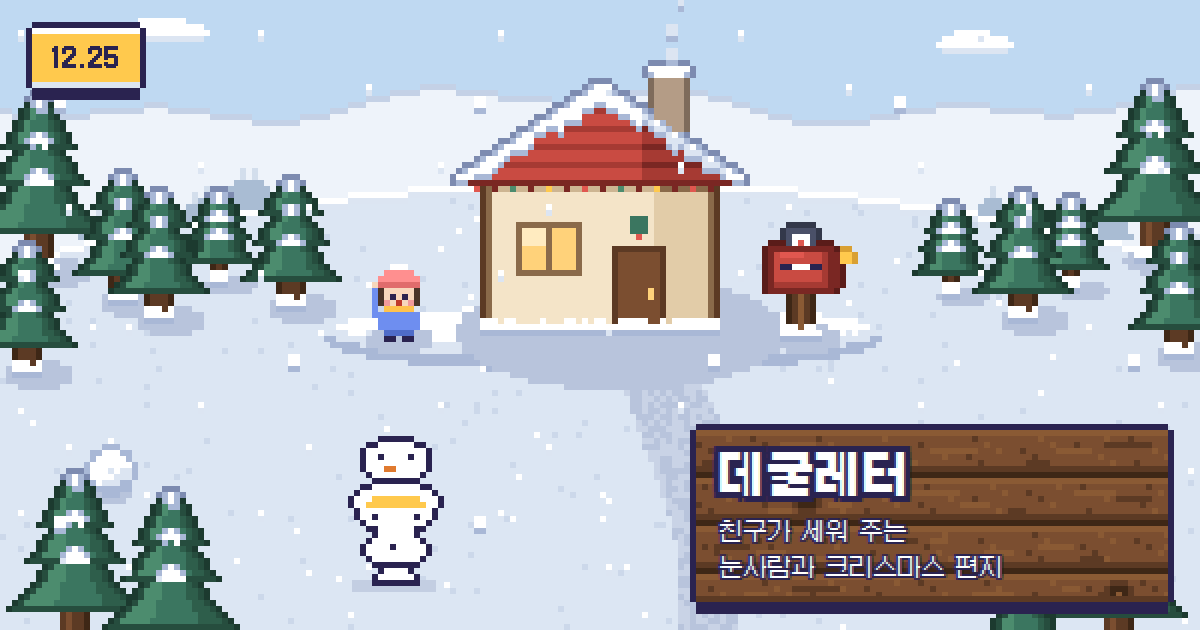
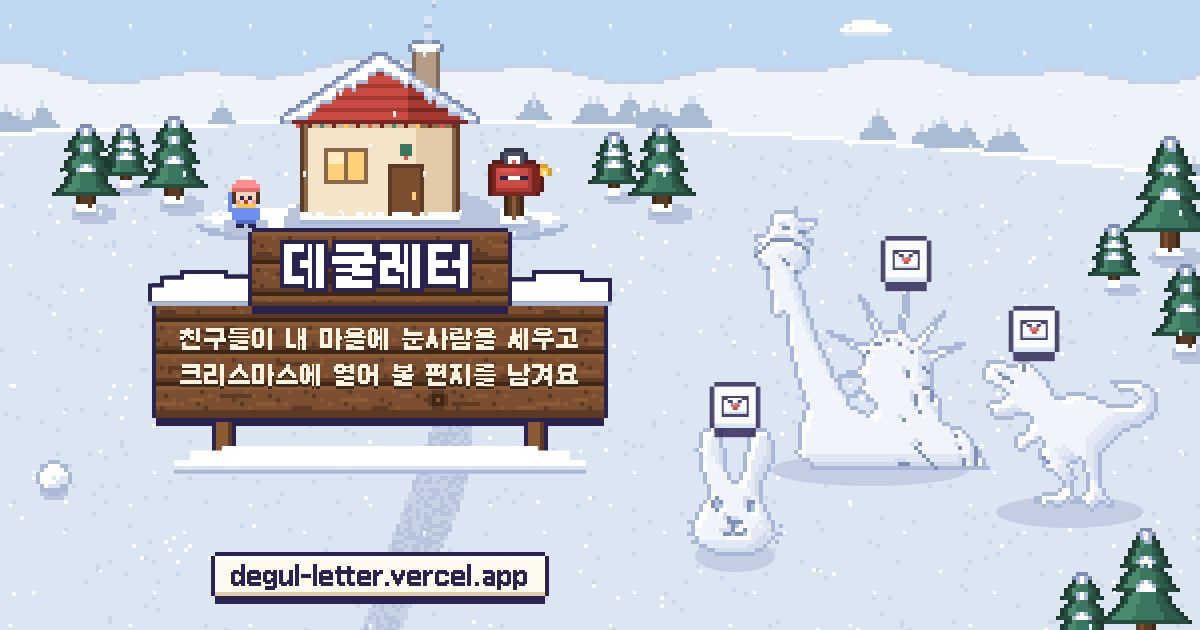
style: 탭·홈 화면 아이콘과 공유 이미지를 새 그림으로 교체
- 탭: 오른쪽으로 미는 캐릭터(icon.svg, favicon.ico)
- 홈 화면: 밤 마을에서 눈덩이를 미는 장면(apple-icon, 192/512)
- 공유: 마을 앞 나무 표지판과 눈 조각들(opengraph/twitter-image)

diff --git a/src/app/layout.tsx b/src/app/layout.tsx
@@ -21,8 +21,9 @@ const galmuriSmall = localFont({
   display: "swap",
 });
 
-// 공유 이미지(opengraph-image.png, twitter-image.png)·아이콘(icon.png, apple-icon.png, favicon.ico)·manifest.ts는
-// 파일 규칙으로 Next가 붙인다. 미리보기 그림은 홈 배경을 그대로 찍고 나무 표지판을 얹은 것이다.
+// 공유 이미지(opengraph-image.png, twitter-image.png)·아이콘(icon.svg, apple-icon.png, favicon.ico)·manifest.ts는
+// 파일 규칙으로 Next가 붙인다. 공유 이미지는 마을 앞 나무 표지판과 눈 조각들, 탭 아이콘은 오른쪽으로 미는 캐릭터,
+// 홈 화면 아이콘은 밤 마을에서 눈덩이를 미는 장면이다.
 export const metadata: Metadata = {
   metadataBase: new URL(SITE_URL),
   title: { default: SITE_TITLE, template: "%s · 데굴레터" },

diff --git a/src/app/manifest.ts b/src/app/manifest.ts
@@ -1,7 +1,7 @@
 import type { MetadataRoute } from "next";
 import { SITE_DESCRIPTION, SITE_NAME } from "@/shared/lib/site";
 
-// 홈 화면에 추가했을 때의 이름·색·아이콘. 192/512는 같은 눈사람 도트를 정수 배로 키운 PNG다.
+// 홈 화면에 추가했을 때의 이름·색·아이콘. 192/512는 apple-icon.png(밤 마을에서 눈덩이를 미는 장면)과 같은 그림이다.
 export default function manifest(): MetadataRoute.Manifest {
   return {
     name: SITE_NAME,
